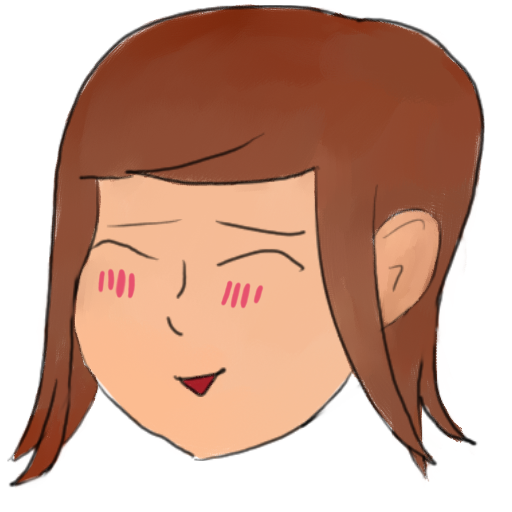
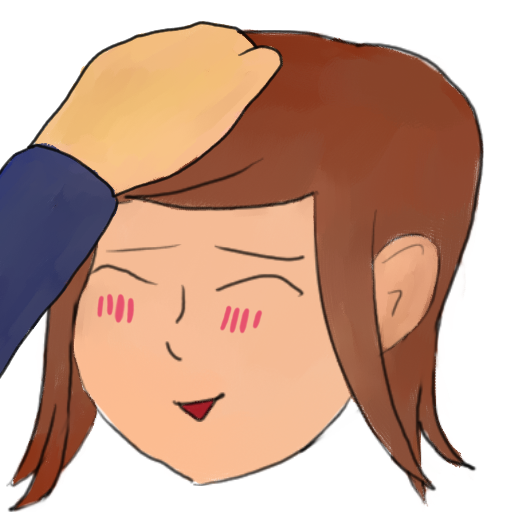
Better Pats

diff --git a/headpat.js b/headpat.js
@@ -3,9 +3,17 @@ var headpats=0;
 document.querySelector('#push').onclick = function(){
     var patsText = document.querySelector('#pats');
     var persyImg = document.querySelector('#persy-img');
-
     headpats+=1;
     pats.innerHTML="Headpats: "+headpats;
     persyImg.src='PersyHappy.png';
     setTimeout(()=>{persyImg.src='PersyContent.png';},250);
+}
+
+document.querySelector('#persy-img').onclick=function(){
+    var patsText = document.querySelector('#pats');
+    var persyImg = document.querySelector('#persy-img');
+    headpats+=1;
+    pats.innerHTML="Headpats: "+headpats;
+    persyImg.src='PersyHappy.png';
+    setTimeout(()=>{persyImg.src='PersyContent.png';},400);
 }
